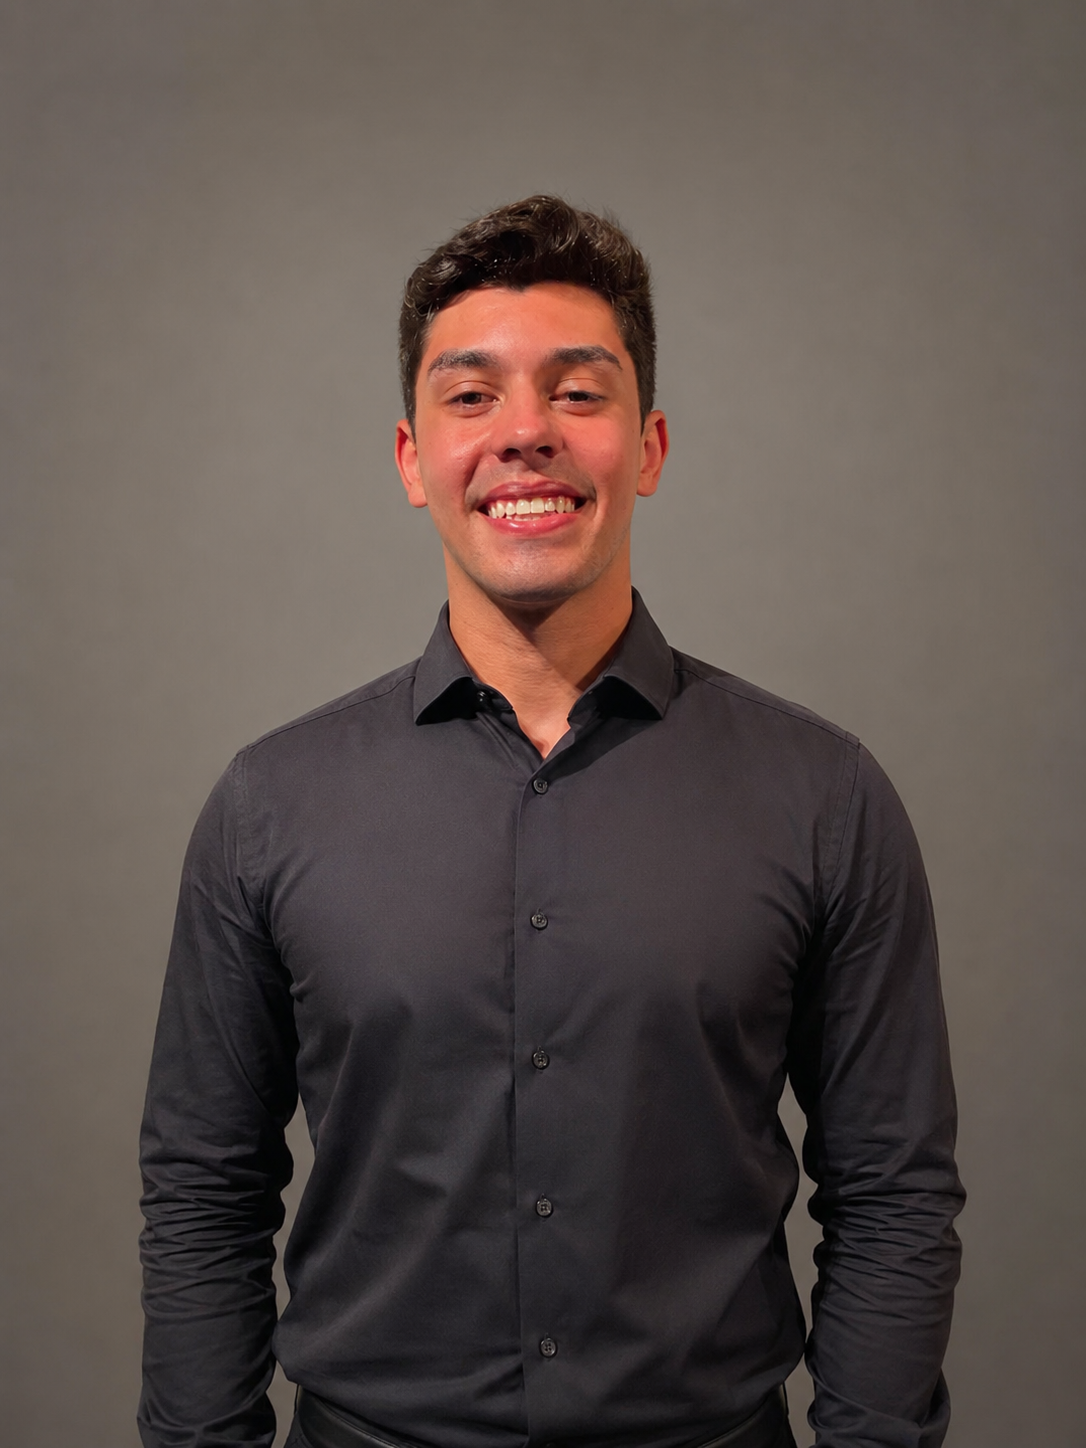
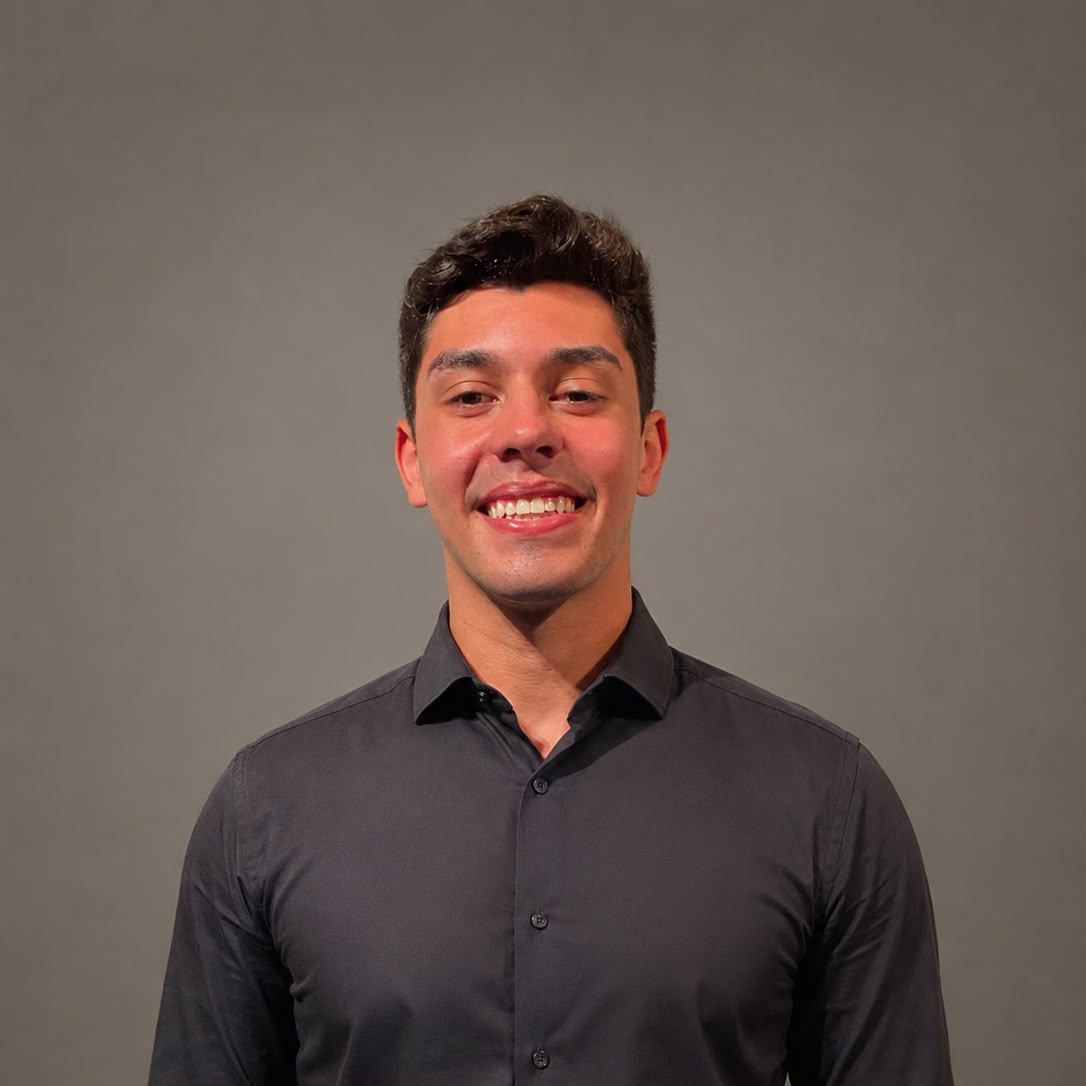
[ADD]: Add more information and fixed image profile.

diff --git a/components/about.tsx b/components/about.tsx
@@ -9,16 +9,16 @@ export function About() {
       <Reveal>
         <div className="space-y-4 leading-relaxed text-muted-foreground">
           <p>
-            {"I'm a full-stack developer who loves turning complex problems into simple, elegant products. My work lives at the intersection of thoughtful design and solid engineering — building interfaces that feel effortless and systems that scale."}
+            {"I'm a Full Stack Software Developer passionate about turning ideas into products that create real impact. I currently work on the development and evolution of enterprise systems, contributing to new features and exploring how Artificial Intelligence can be integrated to make business processes smarter and more efficient."}
           </p>
           <p>
-            I started coding in high school, tinkering with small websites for local businesses. That curiosity grew into a career spanning{" "}
-            <span className="font-medium text-foreground">startups</span>,{" "}
-            <span className="font-medium text-foreground">agencies</span>, and{" "}
-            <span className="font-medium text-foreground">product teams</span>, where I&apos;ve shipped everything from marketing sites to real-time, data-heavy platforms.
+            {"Over the past few months, I've been deeply focused on studying AI integrations, exploring how large language models can be embedded into software products to solve real-world problems and improve user experiences."}
           </p>
           <p>
-            Today I focus on the modern web stack — TypeScript, React, Next.js, and Node.js — with a strong emphasis on accessibility, performance, and developer experience. When I&apos;m not coding, you&apos;ll find me hiking, reading sci-fi, or contributing to open source.
+            {"Beyond my professional work, I'm also building my own mobile application for psychology clinics, combining technology and product thinking to simplify daily operations for mental health professionals."}
+          </p>
+          <p>
+            {"My goal is to build an international career working remotely with teams that value software quality, innovation, and continuous learning. I believe great products are created by combining solid engineering, curiosity, and a constant focus on solving real problems in the simplest and most effective way."}
           </p>
         </div>
       </Reveal>

diff --git a/lib/portfolio-data.ts b/lib/portfolio-data.ts
@@ -101,6 +101,15 @@ export const projects = [
     tags: ["Angular", "TypeScript", "Node.js", "Express.js", "JWT", "Multer", "PostgreSQL", "Docker Compose", "GitHub Actions"],
     url: "https://example.com",
     repo: "https://github.com/marcosgoudinho/marketplace-system",
+  },
+  {
+    title: "My Page",
+    description:
+      "A personal portfolio website built with Next.js, showcasing my projects, experience, and skills. It features a responsive design, smooth animations, and optimized performance.",
+    images: ["/project-analytics.png", "/project-commerce.png", "/project-cadence.png"],
+    tags: ["Next.js", "TypeScript", "React", "Tailwind CSS", "Vercel", "GitHub Actions"],
+    url: "https://www.marcosgoudinho.dev.br/",
+    repo: "https://github.com/marcosgoudinho/my-page.git",
   }
 ]
 

diff --git a/app/layout.tsx b/app/layout.tsx
@@ -11,7 +11,7 @@ const geistMono = Geist_Mono({
 })
 
 export const metadata: Metadata = {
-  title: 'Marcos Goudinho — Full-Stack Developer',
+  title: 'Marcos Goudinho',
   description:
     'Full-stack developer building accessible, performant web applications. Portfolio, experience, projects, and tech stack.',
   generator: 'v0.app',
